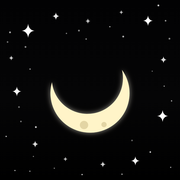
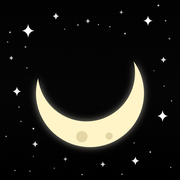
앱 아이콘: 달을 판 폭 0.6 으로 키우고 가운데 0.36 안의 별 점 여덟을 바깥으로
ISNEW 아이콘과 같은 크기, 같은 하늘로 맞춘다. icon-512, apple-touch-icon 을 다시 뽑았다.

Claude-Session: https://claude.ai/code/session_012as8qYzuphrdGM45yDkWEf

diff --git a/web/src/app-icon.ts b/web/src/app-icon.ts
@@ -1,3 +1,3 @@
-// 앱 아이콘 — 별 하늘 위 U 자 달(1024 격자). 아이디는 __ID__ 를 인스턴스마다 바꿔 쓴다.
+// 앱 아이콘 — 별 하늘 위 U 자 달(1024 격자). 달 원 지름은 판 폭 0.6, 별은 달 중심에서 판 폭 0.36 밖(10-17, ISNEW 와 같은 하늘). 아이디는 __ID__ 를 인스턴스마다 바꿔 쓴다.
 export const APP_ICON =
-  "<defs><linearGradient id=\"__ID__sky\" x1=\"0\" y1=\"0\" x2=\"0\" y2=\"1\"><stop offset=\"0\" stop-color=\"#020203\"></stop><stop offset=\"0.55\" stop-color=\"#050506\"></stop><stop offset=\"1\" stop-color=\"#000000\"></stop></linearGradient><radialGradient id=\"__ID__halo\"><stop offset=\"0\" stop-color=\"#FFFFFF\" stop-opacity=\"0.55\"></stop><stop offset=\"1\" stop-color=\"#FFFFFF\" stop-opacity=\"0\"></stop></radialGradient><radialGradient id=\"__ID__dh\"><stop offset=\"0\" stop-color=\"#FFFFFF\" stop-opacity=\"1\"></stop><stop offset=\"0.45\" stop-color=\"#FFFFFF\" stop-opacity=\"0.9\"></stop><stop offset=\"1\" stop-color=\"#FFFFFF\" stop-opacity=\"0\"></stop></radialGradient><filter id=\"__ID__mg\" x=\"-0.5\" y=\"-0.5\" width=\"2\" height=\"2\"><feGaussianBlur stdDeviation=\"0.6\" result=\"b\"></feGaussianBlur><feColorMatrix in=\"b\" type=\"matrix\" values=\"0 0 0 0 1  0 0 0 0 0.957  0 0 0 0 0.784  0 0 0 0.6 0\"></feColorMatrix><feMerge><feMergeNode></feMergeNode><feMergeNode in=\"SourceGraphic\"></feMergeNode></feMerge></filter></defs><rect width=\"1024\" height=\"1024\" fill=\"url(#__ID__sky)\"></rect><circle cx=\"43\" cy=\"239\" r=\"5.8\" fill=\"url(#__ID__dh)\" opacity=\"0.54\"></circle><circle cx=\"866\" cy=\"405\" r=\"4.2\" fill=\"url(#__ID__dh)\" opacity=\"0.52\"></circle><circle cx=\"625\" cy=\"152\" r=\"4.2\" fill=\"url(#__ID__dh)\" opacity=\"0.94\"></circle><circle cx=\"35\" cy=\"776\" r=\"4.8\" fill=\"url(#__ID__dh)\" opacity=\"0.89\"></circle><circle cx=\"309\" cy=\"957\" r=\"4.8\" fill=\"url(#__ID__dh)\" opacity=\"0.54\"></circle><circle cx=\"964\" cy=\"220\" r=\"6.7\" fill=\"url(#__ID__dh)\" opacity=\"0.60\"></circle><circle cx=\"378\" cy=\"190\" r=\"4.8\" fill=\"url(#__ID__dh)\" opacity=\"0.58\"></circle><circle cx=\"701\" cy=\"208\" r=\"6.7\" fill=\"url(#__ID__dh)\" opacity=\"0.80\"></circle><circle cx=\"85\" cy=\"970\" r=\"4.2\" fill=\"url(#__ID__dh)\" opacity=\"0.92\"></circle><circle cx=\"145\" cy=\"267\" r=\"6.7\" fill=\"url(#__ID__dh)\" opacity=\"0.62\"></circle><circle cx=\"751\" cy=\"799\" r=\"5.8\" fill=\"url(#__ID__dh)\" opacity=\"0.47\"></circle><circle cx=\"942\" cy=\"118\" r=\"5.8\" fill=\"url(#__ID__dh)\" opacity=\"0.71\"></circle><circle cx=\"119\" cy=\"691\" r=\"5.8\" fill=\"url(#__ID__dh)\" opacity=\"0.54\"></circle><circle cx=\"694\" cy=\"991\" r=\"4.8\" fill=\"url(#__ID__dh)\" opacity=\"0.81\"></circle><circle cx=\"108\" cy=\"609\" r=\"6.7\" fill=\"url(#__ID__dh)\" opacity=\"0.47\"></circle><circle cx=\"170\" cy=\"974\" r=\"4.2\" fill=\"url(#__ID__dh)\" opacity=\"0.85\"></circle><circle cx=\"976\" cy=\"574\" r=\"4.8\" fill=\"url(#__ID__dh)\" opacity=\"0.77\"></circle><circle cx=\"449\" cy=\"174\" r=\"6.7\" fill=\"url(#__ID__dh)\" opacity=\"0.60\"></circle><circle cx=\"467\" cy=\"993\" r=\"4.8\" fill=\"url(#__ID__dh)\" opacity=\"0.94\"></circle><circle cx=\"171\" cy=\"393\" r=\"4.8\" fill=\"url(#__ID__dh)\" opacity=\"0.76\"></circle><circle cx=\"971\" cy=\"952\" r=\"4.8\" fill=\"url(#__ID__dh)\" opacity=\"0.71\"></circle><circle cx=\"934\" cy=\"490\" r=\"4.2\" fill=\"url(#__ID__dh)\" opacity=\"0.81\"></circle><circle cx=\"57\" cy=\"184\" r=\"6.7\" fill=\"url(#__ID__dh)\" opacity=\"0.76\"></circle><circle cx=\"204\" cy=\"723\" r=\"6.7\" fill=\"url(#__ID__dh)\" opacity=\"0.94\"></circle><circle cx=\"190\" cy=\"890\" r=\"4.2\" fill=\"url(#__ID__dh)\" opacity=\"0.61\"></circle><circle cx=\"901\" cy=\"31\" r=\"6.7\" fill=\"url(#__ID__dh)\" opacity=\"0.93\"></circle><circle cx=\"855\" cy=\"865\" r=\"5.8\" fill=\"url(#__ID__dh)\" opacity=\"0.93\"></circle><circle cx=\"490\" cy=\"222\" r=\"4.8\" fill=\"url(#__ID__dh)\" opacity=\"0.75\"></circle><g opacity=\"1\"><circle cx=\"160\" cy=\"175\" r=\"22.0\" fill=\"url(#__ID__halo)\"></circle><path d=\"M160 135Q164.0 171.0 196.0 175Q164.0 179.0 160 215Q156.0 179.0 124.0 175Q156.0 171.0 160 135Z\" fill=\"#FFFFFF\"></path></g><g opacity=\"0.9\"><circle cx=\"318\" cy=\"92\" r=\"12.1\" fill=\"url(#__ID__halo)\"></circle><path d=\"M318 70Q320.2 89.8 337.8 92Q320.2 94.2 318 114Q315.8 94.2 298.2 92Q315.8 89.8 318 70Z\" fill=\"#FFFFFF\"></path></g><g opacity=\"1\"><circle cx=\"842\" cy=\"118\" r=\"16.5\" fill=\"url(#__ID__halo)\"></circle><path d=\"M842 88Q845.0 115.0 869.0 118Q845.0 121.0 842 148Q839.0 121.0 815.0 118Q839.0 115.0 842 88Z\" fill=\"#FFFFFF\"></path></g><g opacity=\"0.85\"><circle cx=\"930\" cy=\"340\" r=\"11.0\" fill=\"url(#__ID__halo)\"></circle><path d=\"M930 320Q932.0 338.0 948.0 340Q932.0 342.0 930 360Q928.0 342.0 912.0 340Q928.0 338.0 930 320Z\" fill=\"#FFFFFF\"></path></g><g opacity=\"0.95\"><circle cx=\"96\" cy=\"520\" r=\"15.4\" fill=\"url(#__ID__halo)\"></circle><path d=\"M96 492Q98.8 517.2 121.2 520Q98.8 522.8 96 548Q93.2 522.8 70.8 520Q93.2 517.2 96 492Z\" fill=\"#FFFFFF\"></path></g><g opacity=\"1\"><circle cx=\"925\" cy=\"660\" r=\"18.7\" fill=\"url(#__ID__halo)\"></circle><path d=\"M925 626Q928.4 656.6 955.6 660Q928.4 663.4 925 694Q921.6 663.4 894.4 660Q921.6 656.6 925 626Z\" fill=\"#FFFFFF\"></path></g><g opacity=\"0.85\"><circle cx=\"200\" cy=\"820\" r=\"11.0\" fill=\"url(#__ID__halo)\"></circle><path d=\"M200 800Q202.0 818.0 218.0 820Q202.0 822.0 200 840Q198.0 822.0 182.0 820Q198.0 818.0 200 800Z\" fill=\"#FFFFFF\"></path></g><g opacity=\"0.95\"><circle cx=\"770\" cy=\"915\" r=\"14.3\" fill=\"url(#__ID__halo)\"></circle><path d=\"M770 889Q772.6 912.4 793.4 915Q772.6 917.6 770 941Q767.4 917.6 746.6 915Q767.4 912.4 770 889Z\" fill=\"#FFFFFF\"></path></g><g opacity=\"0.75\"><circle cx=\"500\" cy=\"120\" r=\"8.8\" fill=\"url(#__ID__halo)\"></circle><path d=\"M500 104Q501.6 118.4 514.4 120Q501.6 121.6 500 136Q498.4 121.6 485.6 120Q498.4 118.4 500 104Z\" fill=\"#FFFFFF\"></path></g><g opacity=\"0.8\"><circle cx=\"585\" cy=\"935\" r=\"9.9\" fill=\"url(#__ID__halo)\"></circle><path d=\"M585 917Q586.8 933.2 601.2 935Q586.8 936.8 585 953Q583.2 936.8 568.8 935Q583.2 933.2 585 917Z\" fill=\"#FFFFFF\"></path></g><g opacity=\"0.8\"><circle cx=\"64\" cy=\"330\" r=\"8.2\" fill=\"url(#__ID__halo)\"></circle><path d=\"M64 315Q65.5 328.5 77.5 330Q65.5 331.5 64 345Q62.5 331.5 50.5 330Q62.5 328.5 64 315Z\" fill=\"#FFFFFF\"></path></g><g opacity=\"0.7\"><circle cx=\"372\" cy=\"905\" r=\"7.7\" fill=\"url(#__ID__halo)\"></circle><path d=\"M372 891Q373.4 903.6 384.6 905Q373.4 906.4 372 919Q370.6 906.4 359.4 905Q370.6 903.6 372 891Z\" fill=\"#FFFFFF\"></path></g><g opacity=\"0.7\"><circle cx=\"690\" cy=\"70\" r=\"7.2\" fill=\"url(#__ID__halo)\"></circle><path d=\"M690 57Q691.3 68.7 701.7 70Q691.3 71.3 690 83Q688.7 71.3 678.3 70Q688.7 68.7 690 57Z\" fill=\"#FFFFFF\"></path></g><g transform=\"translate(512 530) scale(25) translate(-12 -12)\" filter=\"url(#__ID__mg)\"><path d=\"M19.27 6.69A9 9 0 1 1 3.35 9.50A8.1 8.1 0 1 0 19.27 6.69Z\" fill=\"#FFF4C8\"></path><circle cx=\"10.64\" cy=\"19.25\" r=\"0.95\" fill=\"#E3D5A4\"></circle><circle cx=\"15.19\" cy=\"19.15\" r=\"0.6\" fill=\"#E3D5A4\"></circle></g>";
+  "<defs><linearGradient id=\"__ID__sky\" x1=\"0\" y1=\"0\" x2=\"0\" y2=\"1\"><stop offset=\"0\" stop-color=\"#020203\"></stop><stop offset=\"0.55\" stop-color=\"#050506\"></stop><stop offset=\"1\" stop-color=\"#000000\"></stop></linearGradient><radialGradient id=\"__ID__halo\"><stop offset=\"0\" stop-color=\"#FFFFFF\" stop-opacity=\"0.55\"></stop><stop offset=\"1\" stop-color=\"#FFFFFF\" stop-opacity=\"0\"></stop></radialGradient><radialGradient id=\"__ID__dh\"><stop offset=\"0\" stop-color=\"#FFFFFF\" stop-opacity=\"1\"></stop><stop offset=\"0.45\" stop-color=\"#FFFFFF\" stop-opacity=\"0.9\"></stop><stop offset=\"1\" stop-color=\"#FFFFFF\" stop-opacity=\"0\"></stop></radialGradient><filter id=\"__ID__mg\" x=\"-0.5\" y=\"-0.5\" width=\"2\" height=\"2\"><feGaussianBlur stdDeviation=\"0.6\" result=\"b\"></feGaussianBlur><feColorMatrix in=\"b\" type=\"matrix\" values=\"0 0 0 0 1  0 0 0 0 0.957  0 0 0 0 0.784  0 0 0 0.6 0\"></feColorMatrix><feMerge><feMergeNode></feMergeNode><feMergeNode in=\"SourceGraphic\"></feMergeNode></feMerge></filter></defs><rect width=\"1024\" height=\"1024\" fill=\"url(#__ID__sky)\"></rect><circle cx=\"43\" cy=\"239\" r=\"5.8\" fill=\"url(#__ID__dh)\" opacity=\"0.54\"></circle><circle cx=\"876\" cy=\"402\" r=\"4.2\" fill=\"url(#__ID__dh)\" opacity=\"0.52\"></circle><circle cx=\"625\" cy=\"152\" r=\"4.2\" fill=\"url(#__ID__dh)\" opacity=\"0.94\"></circle><circle cx=\"35\" cy=\"776\" r=\"4.8\" fill=\"url(#__ID__dh)\" opacity=\"0.89\"></circle><circle cx=\"309\" cy=\"957\" r=\"4.8\" fill=\"url(#__ID__dh)\" opacity=\"0.54\"></circle><circle cx=\"964\" cy=\"220\" r=\"6.7\" fill=\"url(#__ID__dh)\" opacity=\"0.60\"></circle><circle cx=\"368\" cy=\"166\" r=\"4.8\" fill=\"url(#__ID__dh)\" opacity=\"0.58\"></circle><circle cx=\"711\" cy=\"191\" r=\"6.7\" fill=\"url(#__ID__dh)\" opacity=\"0.80\"></circle><circle cx=\"85\" cy=\"970\" r=\"4.2\" fill=\"url(#__ID__dh)\" opacity=\"0.92\"></circle><circle cx=\"145\" cy=\"267\" r=\"6.7\" fill=\"url(#__ID__dh)\" opacity=\"0.62\"></circle><circle cx=\"763\" cy=\"813\" r=\"5.8\" fill=\"url(#__ID__dh)\" opacity=\"0.47\"></circle><circle cx=\"942\" cy=\"118\" r=\"5.8\" fill=\"url(#__ID__dh)\" opacity=\"0.71\"></circle><circle cx=\"119\" cy=\"691\" r=\"5.8\" fill=\"url(#__ID__dh)\" opacity=\"0.54\"></circle><circle cx=\"694\" cy=\"991\" r=\"4.8\" fill=\"url(#__ID__dh)\" opacity=\"0.81\"></circle><circle cx=\"108\" cy=\"609\" r=\"6.7\" fill=\"url(#__ID__dh)\" opacity=\"0.47\"></circle><circle cx=\"170\" cy=\"974\" r=\"4.2\" fill=\"url(#__ID__dh)\" opacity=\"0.85\"></circle><circle cx=\"976\" cy=\"574\" r=\"4.8\" fill=\"url(#__ID__dh)\" opacity=\"0.77\"></circle><circle cx=\"443\" cy=\"142\" r=\"6.7\" fill=\"url(#__ID__dh)\" opacity=\"0.60\"></circle><circle cx=\"467\" cy=\"993\" r=\"4.8\" fill=\"url(#__ID__dh)\" opacity=\"0.94\"></circle><circle cx=\"153\" cy=\"386\" r=\"4.8\" fill=\"url(#__ID__dh)\" opacity=\"0.76\"></circle><circle cx=\"971\" cy=\"952\" r=\"4.8\" fill=\"url(#__ID__dh)\" opacity=\"0.71\"></circle><circle cx=\"934\" cy=\"490\" r=\"4.2\" fill=\"url(#__ID__dh)\" opacity=\"0.81\"></circle><circle cx=\"57\" cy=\"184\" r=\"6.7\" fill=\"url(#__ID__dh)\" opacity=\"0.76\"></circle><circle cx=\"190\" cy=\"732\" r=\"6.7\" fill=\"url(#__ID__dh)\" opacity=\"0.94\"></circle><circle cx=\"190\" cy=\"890\" r=\"4.2\" fill=\"url(#__ID__dh)\" opacity=\"0.61\"></circle><circle cx=\"901\" cy=\"31\" r=\"6.7\" fill=\"url(#__ID__dh)\" opacity=\"0.93\"></circle><circle cx=\"855\" cy=\"865\" r=\"5.8\" fill=\"url(#__ID__dh)\" opacity=\"0.93\"></circle><circle cx=\"560\" cy=\"140\" r=\"4.8\" fill=\"url(#__ID__dh)\" opacity=\"0.75\"></circle><g opacity=\"1\"><circle cx=\"160\" cy=\"175\" r=\"22.0\" fill=\"url(#__ID__halo)\"></circle><path d=\"M160 135Q164.0 171.0 196.0 175Q164.0 179.0 160 215Q156.0 179.0 124.0 175Q156.0 171.0 160 135Z\" fill=\"#FFFFFF\"></path></g><g opacity=\"0.9\"><circle cx=\"318\" cy=\"92\" r=\"12.1\" fill=\"url(#__ID__halo)\"></circle><path d=\"M318 70Q320.2 89.8 337.8 92Q320.2 94.2 318 114Q315.8 94.2 298.2 92Q315.8 89.8 318 70Z\" fill=\"#FFFFFF\"></path></g><g opacity=\"1\"><circle cx=\"842\" cy=\"118\" r=\"16.5\" fill=\"url(#__ID__halo)\"></circle><path d=\"M842 88Q845.0 115.0 869.0 118Q845.0 121.0 842 148Q839.0 121.0 815.0 118Q839.0 115.0 842 88Z\" fill=\"#FFFFFF\"></path></g><g opacity=\"0.85\"><circle cx=\"930\" cy=\"340\" r=\"11.0\" fill=\"url(#__ID__halo)\"></circle><path d=\"M930 320Q932.0 338.0 948.0 340Q932.0 342.0 930 360Q928.0 342.0 912.0 340Q928.0 338.0 930 320Z\" fill=\"#FFFFFF\"></path></g><g opacity=\"0.95\"><circle cx=\"96\" cy=\"520\" r=\"15.4\" fill=\"url(#__ID__halo)\"></circle><path d=\"M96 492Q98.8 517.2 121.2 520Q98.8 522.8 96 548Q93.2 522.8 70.8 520Q93.2 517.2 96 492Z\" fill=\"#FFFFFF\"></path></g><g opacity=\"1\"><circle cx=\"925\" cy=\"660\" r=\"18.7\" fill=\"url(#__ID__halo)\"></circle><path d=\"M925 626Q928.4 656.6 955.6 660Q928.4 663.4 925 694Q921.6 663.4 894.4 660Q921.6 656.6 925 626Z\" fill=\"#FFFFFF\"></path></g><g opacity=\"0.85\"><circle cx=\"200\" cy=\"820\" r=\"11.0\" fill=\"url(#__ID__halo)\"></circle><path d=\"M200 800Q202.0 818.0 218.0 820Q202.0 822.0 200 840Q198.0 822.0 182.0 820Q198.0 818.0 200 800Z\" fill=\"#FFFFFF\"></path></g><g opacity=\"0.95\"><circle cx=\"770\" cy=\"915\" r=\"14.3\" fill=\"url(#__ID__halo)\"></circle><path d=\"M770 889Q772.6 912.4 793.4 915Q772.6 917.6 770 941Q767.4 917.6 746.6 915Q767.4 912.4 770 889Z\" fill=\"#FFFFFF\"></path></g><g opacity=\"0.75\"><circle cx=\"500\" cy=\"120\" r=\"8.8\" fill=\"url(#__ID__halo)\"></circle><path d=\"M500 104Q501.6 118.4 514.4 120Q501.6 121.6 500 136Q498.4 121.6 485.6 120Q498.4 118.4 500 104Z\" fill=\"#FFFFFF\"></path></g><g opacity=\"0.8\"><circle cx=\"585\" cy=\"935\" r=\"9.9\" fill=\"url(#__ID__halo)\"></circle><path d=\"M585 917Q586.8 933.2 601.2 935Q586.8 936.8 585 953Q583.2 936.8 568.8 935Q583.2 933.2 585 917Z\" fill=\"#FFFFFF\"></path></g><g opacity=\"0.8\"><circle cx=\"64\" cy=\"330\" r=\"8.2\" fill=\"url(#__ID__halo)\"></circle><path d=\"M64 315Q65.5 328.5 77.5 330Q65.5 331.5 64 345Q62.5 331.5 50.5 330Q62.5 328.5 64 315Z\" fill=\"#FFFFFF\"></path></g><g opacity=\"0.7\"><circle cx=\"372\" cy=\"905\" r=\"7.7\" fill=\"url(#__ID__halo)\"></circle><path d=\"M372 891Q373.4 903.6 384.6 905Q373.4 906.4 372 919Q370.6 906.4 359.4 905Q370.6 903.6 372 891Z\" fill=\"#FFFFFF\"></path></g><g opacity=\"0.7\"><circle cx=\"690\" cy=\"70\" r=\"7.2\" fill=\"url(#__ID__halo)\"></circle><path d=\"M690 57Q691.3 68.7 701.7 70Q691.3 71.3 690 83Q688.7 71.3 678.3 70Q688.7 68.7 690 57Z\" fill=\"#FFFFFF\"></path></g><g transform=\"translate(512 530) scale(34.13) translate(-12 -12)\" filter=\"url(#__ID__mg)\"><path d=\"M19.27 6.69A9 9 0 1 1 3.35 9.50A8.1 8.1 0 1 0 19.27 6.69Z\" fill=\"#FFF4C8\"></path><circle cx=\"10.64\" cy=\"19.25\" r=\"0.95\" fill=\"#E3D5A4\"></circle><circle cx=\"15.19\" cy=\"19.15\" r=\"0.6\" fill=\"#E3D5A4\"></circle></g>";
